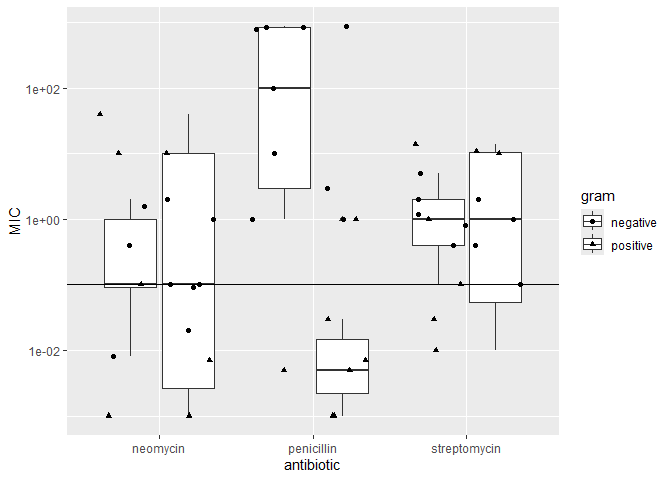
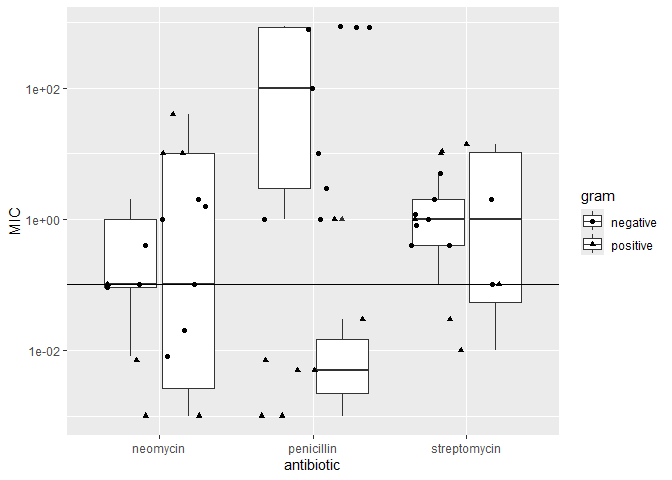
Reorder bacteria by MIC

diff --git a/challenges/c05-antibiotics-assignment.md b/challenges/c05-antibiotics-assignment.md
@@ -185,10 +185,10 @@ df_antibiotics_long <-
     names_to = "antibiotic",
     values_to = "MIC",
     cols = c(penicillin, streptomycin, neomycin)
-  ) 
+  ) %>% 
+  mutate(bacteria = fct_reorder(bacteria, MIC))
 
 df_antibiotics_long %>% 
-  mutate(bacteria = fct_reorder(bacteria, MIC)) %>% 
   ggplot(aes(antibiotic, bacteria, fill = MIC)) +
   geom_tile() +
   facet_grid(gram ~ ., scales = "free_y", space = "free_y") +
